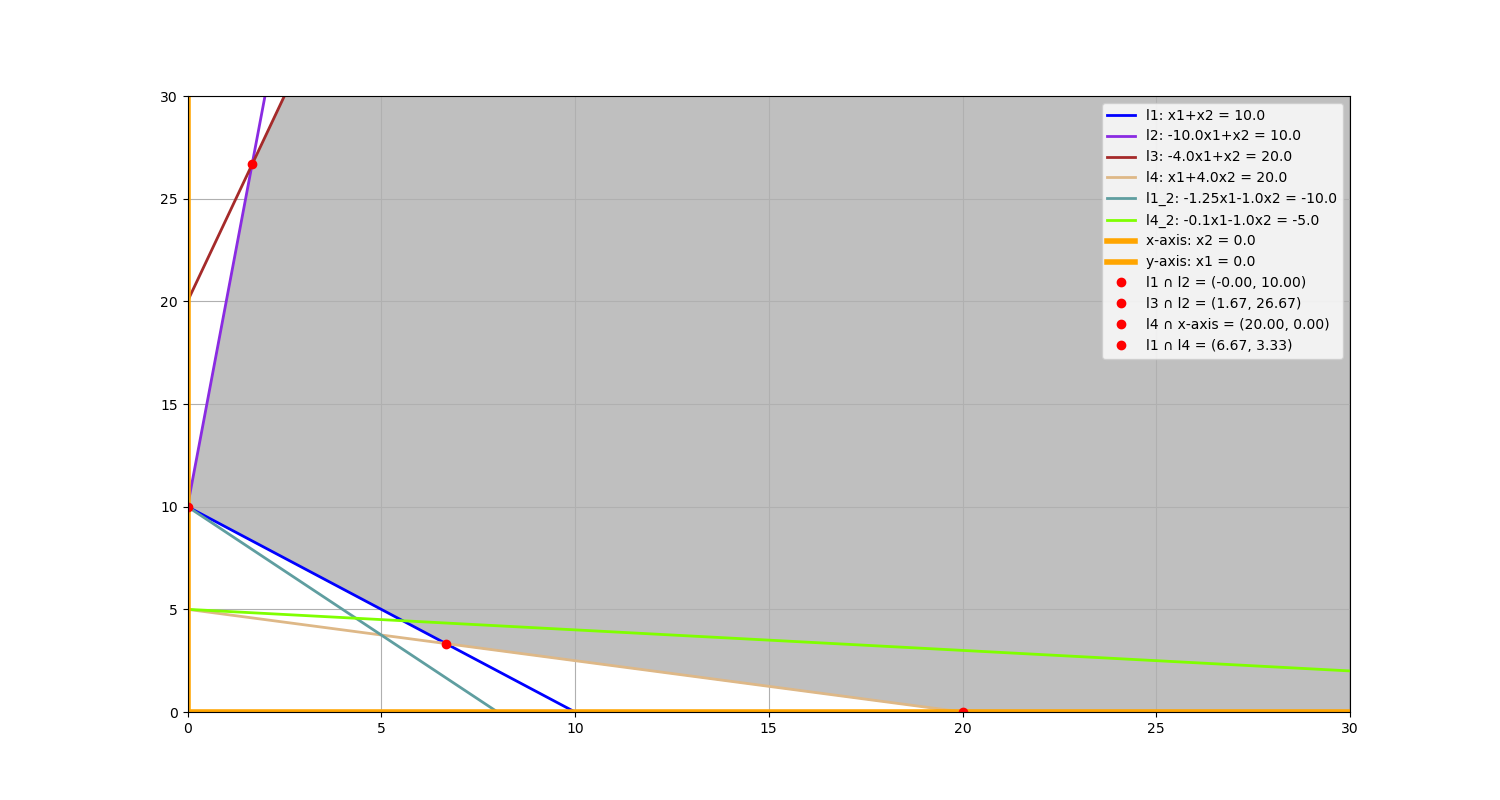
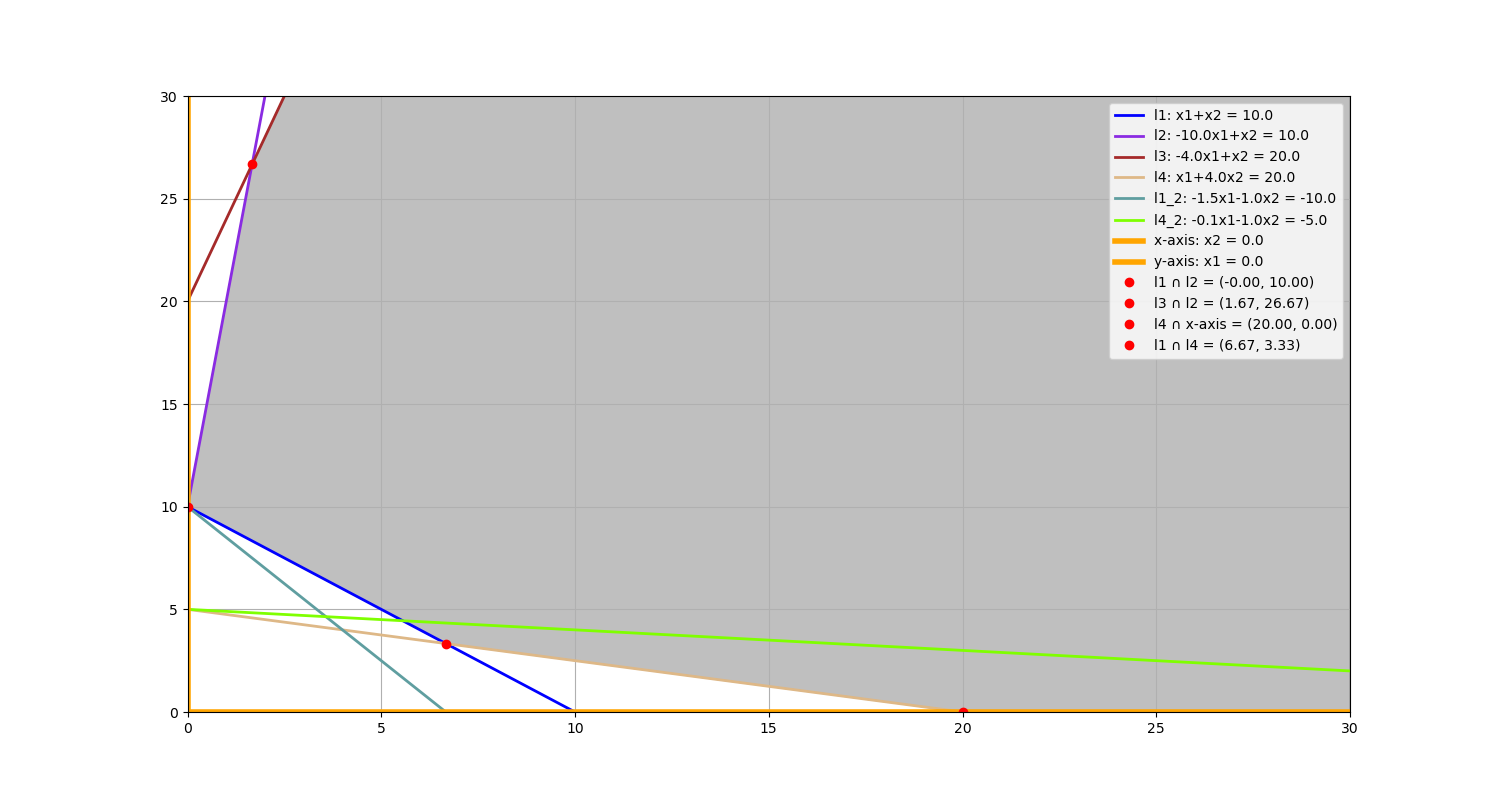
added a function for auto intersections

diff --git a/2023-2024/Assignment_1/exercise_01.py b/2023-2024/Assignment_1/exercise_01.py
@@ -71,8 +71,8 @@ class Gui(LinearGUI):
 
     def solution(self, a, b, minlim, maxlim, legend=True):
 
-        line_l3 = [l for l in self.lines if l.name == "l3"][0]
-        line_l1 = [l for l in self.lines if l.name == "l1"][0]
+        # line_l3 = [l for l in self.lines if l.name == "l3"][0]
+        # line_l1 = [l for l in self.lines if l.name == "l1"][0]
         # extra_lines = [line(a, b, i, "extra") for i in range(minlim, maxlim, step=0.5)]
 
         counter = minlim
@@ -80,8 +80,10 @@ class Gui(LinearGUI):
             extra = line(a, b, counter, "extra")
             extra.plot(self.xAxis, "cornflowerblue")
             extra.legend_show = False
-            extra.intersection(line_l3)
-            extra.intersection(line_l1)
+            for l in self.lines:
+                possible = extra.intersection(l, plotting=False)
+                if possible and self.check_feasible_point(possible):
+                    extra.intersection(l)
             counter += self.step
 
 
@@ -140,10 +142,10 @@ def main():
     gui = Gui(plt, name="Feasible Region", figsize=(15, 8))
 
     exerc01 = Exercise01(gui=gui, save_images=True)
+    exerc01.save_images = False
     # exerc01.feasible_region()
     # exerc01.exerc01_a()
-    # exerc01.exerc01_b()
-    # exerc01.save_images = False
+    exerc01.exerc01_b()
     # exerc01.exerc01_c()
 
     gui.show()

diff --git a/Tools/linearGui.py b/Tools/linearGui.py
@@ -3,6 +3,8 @@ import numpy as np
 import matplotlib.colors as mcolors
 import sys
 from pathlib import Path
+from shapely.geometry.polygon import Polygon
+from shapely.geometry import Point
 
 sys.path.append(str(Path(__file__).parents[1]))
 from Tools.plt_line import line
@@ -105,3 +107,8 @@ class LinearGUI:
         self.plt.grid()
         self.plot_equations()
         self.fill_feasible()
+
+    def check_feasible_point(self, points):
+        p = Point(points)
+        polygon = Polygon(self.v)
+        return polygon.contains(p)
